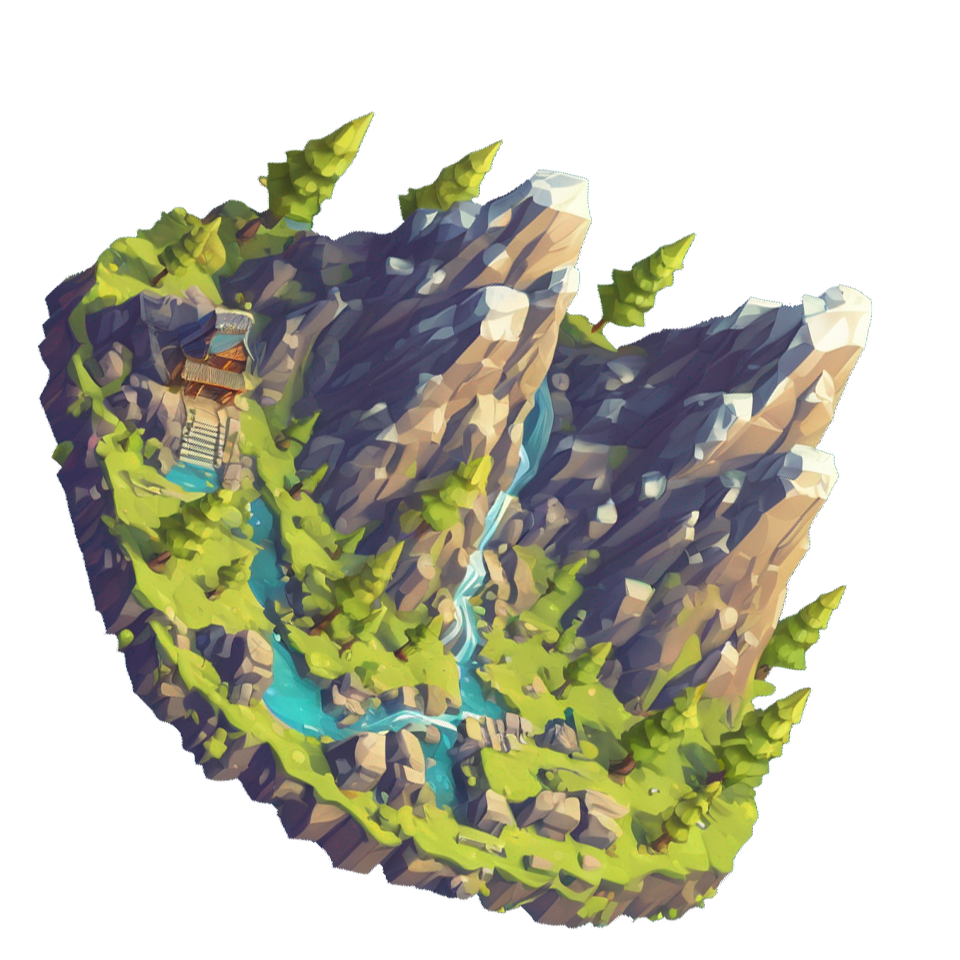
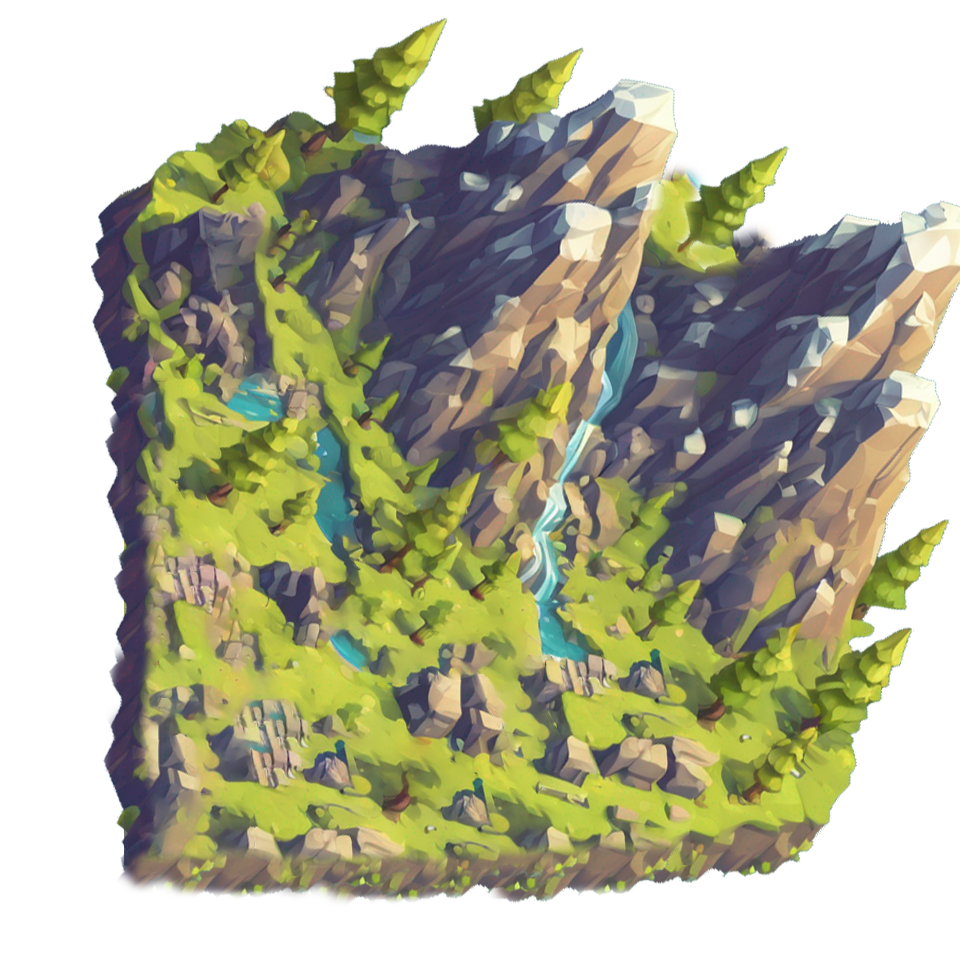
new assets

diff --git a/client/src/components/partials/game/MapTile.vue b/client/src/components/partials/game/MapTile.vue
@@ -24,7 +24,7 @@
       class="mountain"
       alt="Mountain"
     />
-    <div class="position-text">{{ mapTile.x }} / {{ mapTile.y }}</div>
+    <!--    <div class="position-text">{{ mapTile.x }} / {{ mapTile.y }}</div>-->
   </div>
 </template>
 
@@ -46,7 +46,6 @@ defineProps<{
   position: absolute;
   width: 100px;
   height: 100px;
-  border: 3px red solid;
   user-select: none;
 
   &:hover {
@@ -58,27 +57,27 @@ defineProps<{
     pointer-events: none;
 
     &.water {
-      margin-left: -50%;
-      margin-top: -40%;
-      width: 180%;
+      margin-left: -30%;
+      margin-top: -30%;
+      width: 160%;
     }
 
     &.forest {
-      width: 165%;
-      margin-left: -30%;
+      width: 160%;
+      margin-left: -25%;
       margin-top: -35%;
     }
 
     &.plain {
-      width: 165%;
+      width: 150%;
       margin-left: -30%;
-      margin-top: -35%;
+      margin-top: -25%;
     }
 
     &.mountain {
-      margin-left: -50%;
-      margin-top: -60%;
-      width: 190%;
+      margin-left: -25%;
+      margin-top: -30%;
+      width: 150%;
     }
   }
 

diff --git a/client/src/store/authStore.ts b/client/src/store/authStore.ts
@@ -5,9 +5,26 @@ export const useAuthStore = defineStore(
   "auth",
   () => {
     const token = ref("");
+
     const hasToken = computed(() => token.value !== "");
 
-    // TODO: Need to handle token expiration too
+    const isTokenExpired = computed(() => {
+      if (token.value === "") {
+        return true;
+      }
+
+      const payload = token.value.split(".")[1];
+      const decoded = atob(payload);
+      const parsed = JSON.parse(decoded);
+      const expiration = parsed.exp * 1000;
+      console.info(
+        "Session expires in ",
+        (expiration - Date.now()) / 1000 / 60 / 60 / 24,
+        " days",
+      );
+
+      return Date.now() > expiration;
+    });
 
     const roles = computed<Array<string>>(() => {
       if (token.value === "") {
@@ -25,6 +42,7 @@ export const useAuthStore = defineStore(
       token,
       hasToken,
       roles,
+      isTokenExpired,
     };
   },
 

diff --git a/client/src/core/router.ts b/client/src/core/router.ts
@@ -39,6 +39,8 @@ const router = createRouter({
 router.beforeEach(async (to: RouteLocationNormalized) => {
   document.title = to.meta.title ? `${to.meta.title}` : title;
 
+  deleteTokenIfExpired();
+
   if (Array.isArray(to.meta.roles)) {
     const authStore = useAuthStore();
 
@@ -55,5 +57,13 @@ router.beforeEach(async (to: RouteLocationNormalized) => {
     }
   }
 });
+
+function deleteTokenIfExpired(): void {
+  const authStore = useAuthStore();
+
+  if (authStore.isTokenExpired) {
+    authStore.token = "";
+  }
+}
 
 export default router;

diff --git a/client/src/components/partials/game/MapLayer.vue b/client/src/components/partials/game/MapLayer.vue
@@ -69,6 +69,8 @@ const amountOfTilesY = computed(() =>
 // region hooks
 
 onMounted(async () => {
+  // TODO: Add touch screen support too
+
   window.addEventListener("resize", onWindowResize);
   window.addEventListener("mousedown", onMapMouseDown);
   window.addEventListener("mousemove", onMapMouseMove);
@@ -99,7 +101,7 @@ function getMapTileStyle(mapTile: MapTileEntity): MapTileStyle {
   return {
     left: x + "px",
     top: y + "px",
-    zIndex: 999 - mapTile.x * 10 + mapTile.y,
+    zIndex: 9999 - mapTile.x + mapTile.y * 10,
   };
 }
 

diff --git a/server/src/main/kotlin/eu/dobschal/service/UserService.kt b/server/src/main/kotlin/eu/dobschal/service/UserService.kt
@@ -44,7 +44,7 @@ class UserService @Inject constructor(private val userRepository: UserRepository
         return JwtResponseDto(
             Jwt.issuer(JWT_ISSUER)
                 .upn(user.username)
-                .expiresIn(3600000)
+                .expiresIn(360000000)
                 .groups(setOf(USER_ROLE))
                 .sign()
         )

diff --git a/client/src/assets/tiles/README.md b/client/src/assets/tiles/README.md
@@ -1,0 +1,3 @@
+# Images Source
+
+The images are created with PixelVibe (Rosebud AI) and adjusted with Photoshop.
